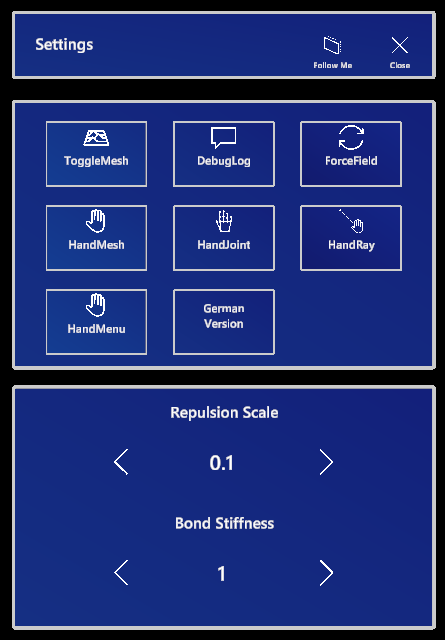
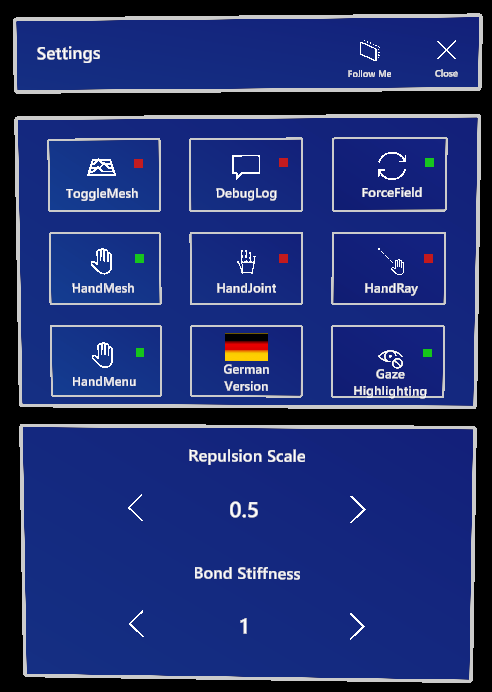
Updated settings documentation to include gaze highlighting and indicators

diff --git a/src/routes/manual/02-normal_mode/02-settings.md b/src/routes/manual/02-normal_mode/02-settings.md
@@ -4,6 +4,8 @@ title: Settings
 
 <img src="/images/manual/settings.png" alt="Settings Menu" class="mx-auto max-w-md" />
 
+All toggle buttons in the settings are equipped with a colored square indicating whether they are currently set to "on" or "off".
+
 ### Toggle Mesh
 This button turns the rendering of the spatial awareness of [OpenXR](https://www.khronos.org/OpenXR/) on and off.
 The real world surroundings are detected by your device in a (usually) 2.5 second interval.
@@ -30,6 +32,9 @@ However, this will also disable the **Chain mode** button since it is part of th
 
 ### Switch language
 This button switches the application's language between German and English.
+
+### Gaze highlighting
+Eye tracking is used by chARp to highlight the atom the user is currently looking at. This behaviour is, however, optional and can be toggled using this button.
 
 ### Bond Stiffness
 The bond stiffness parameter changes the number of force field iterations and therefore the felt stiffness of the molecule.
